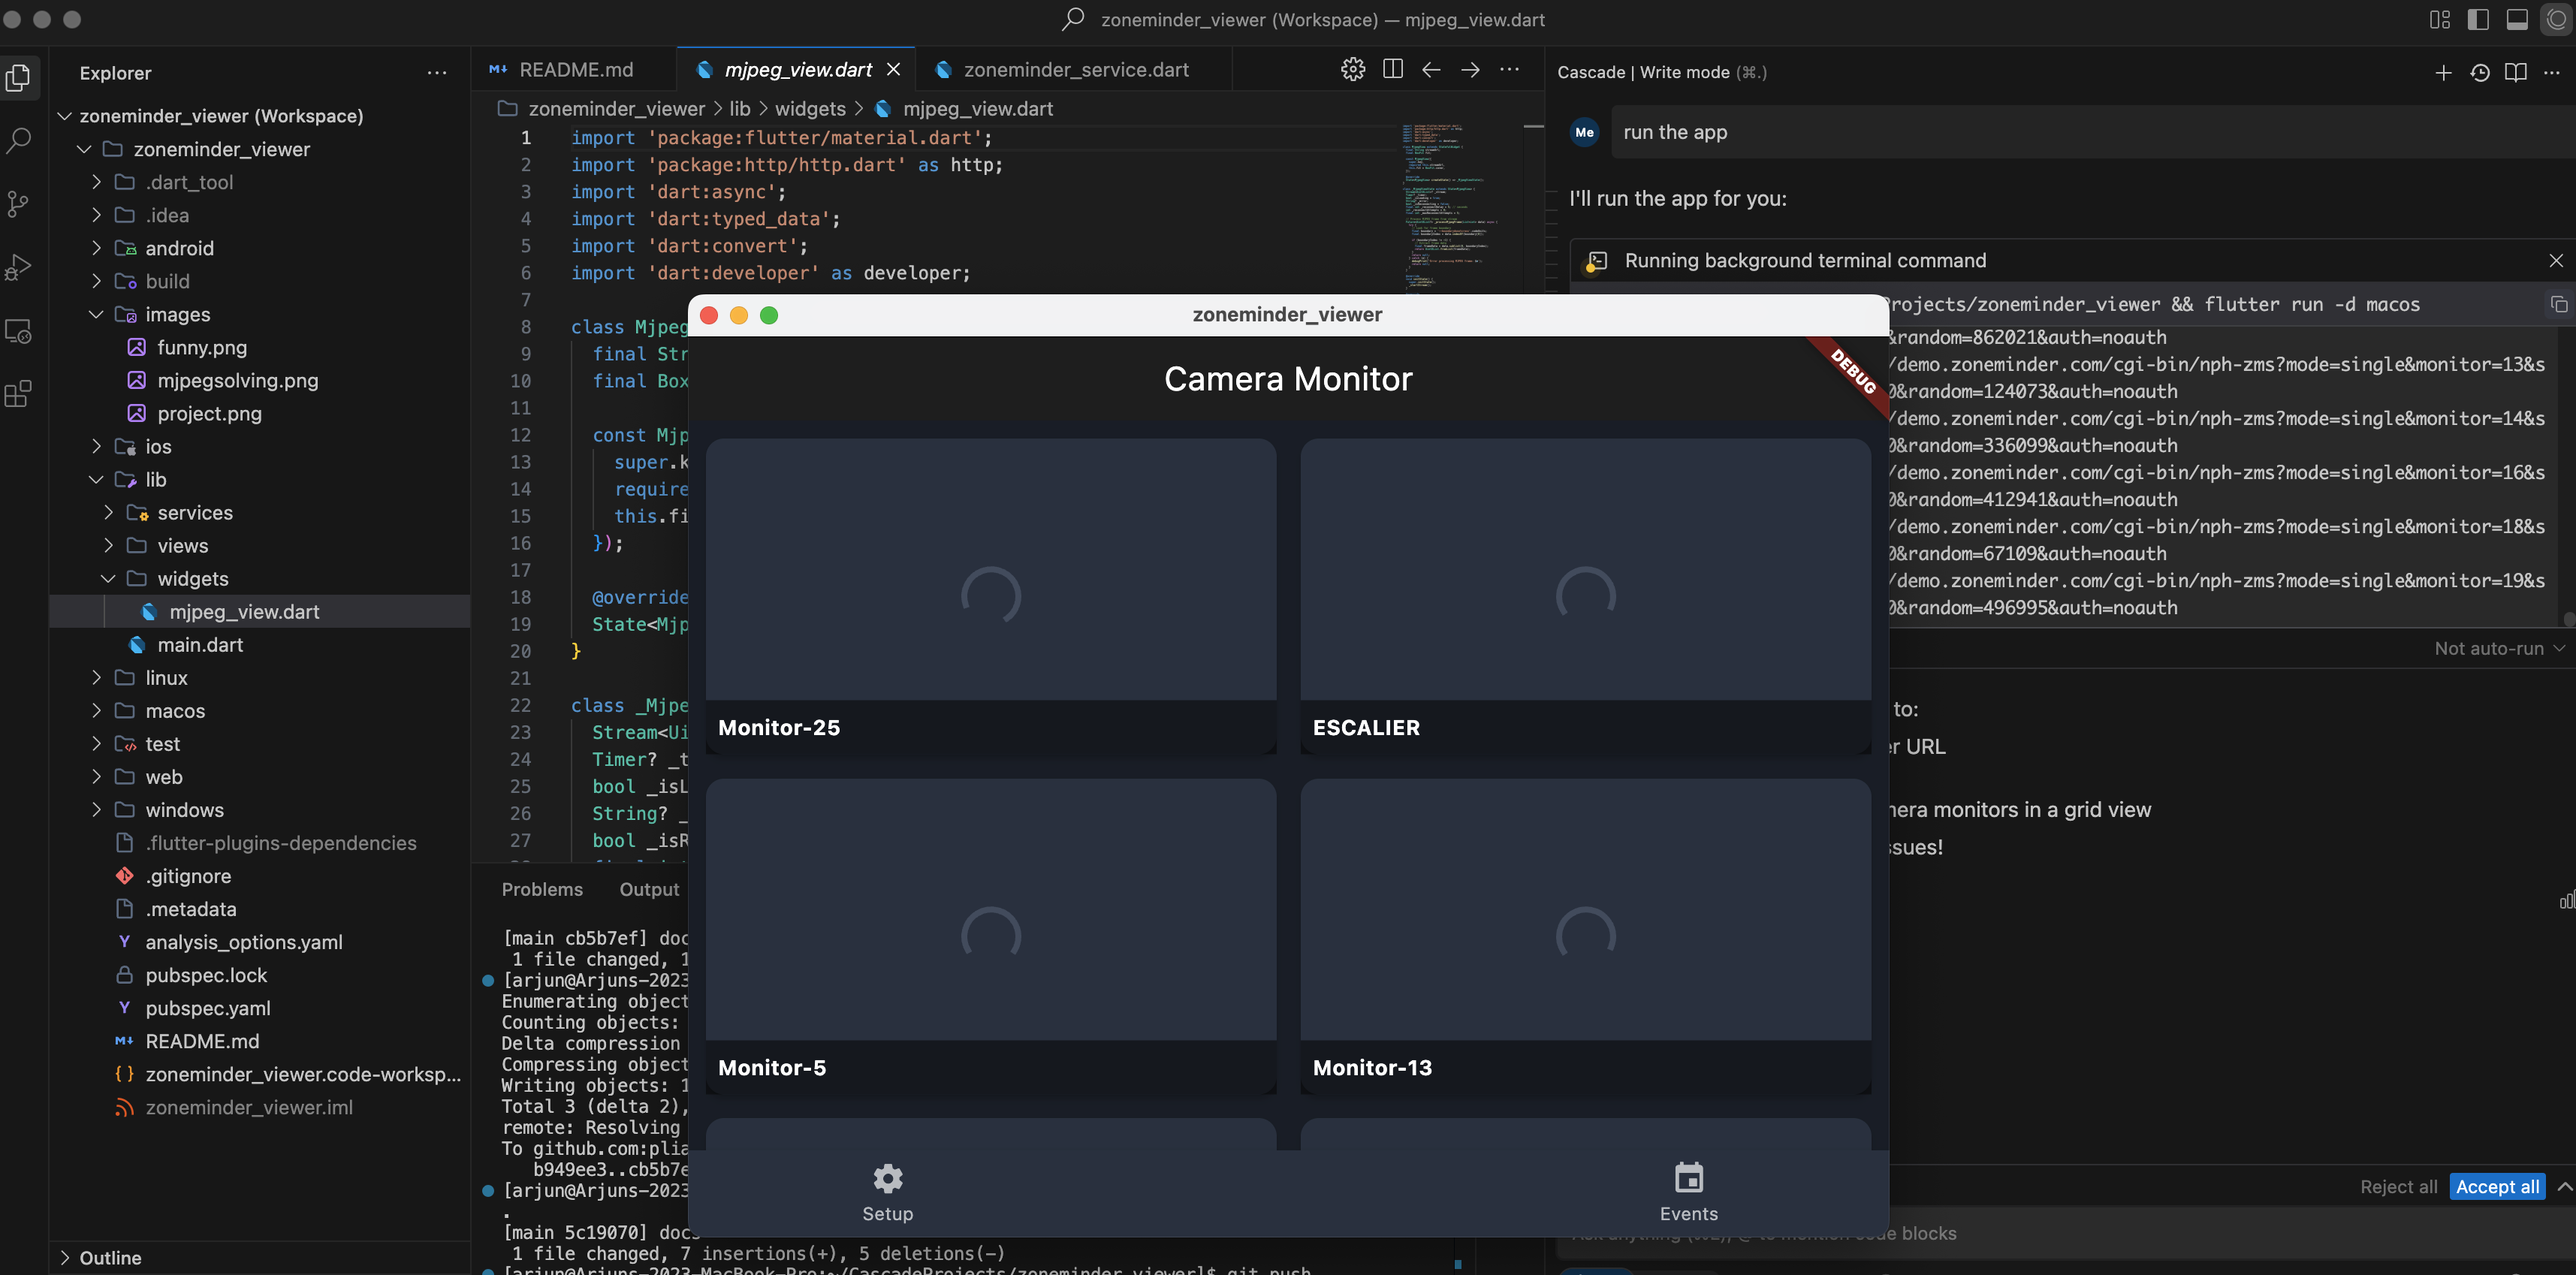
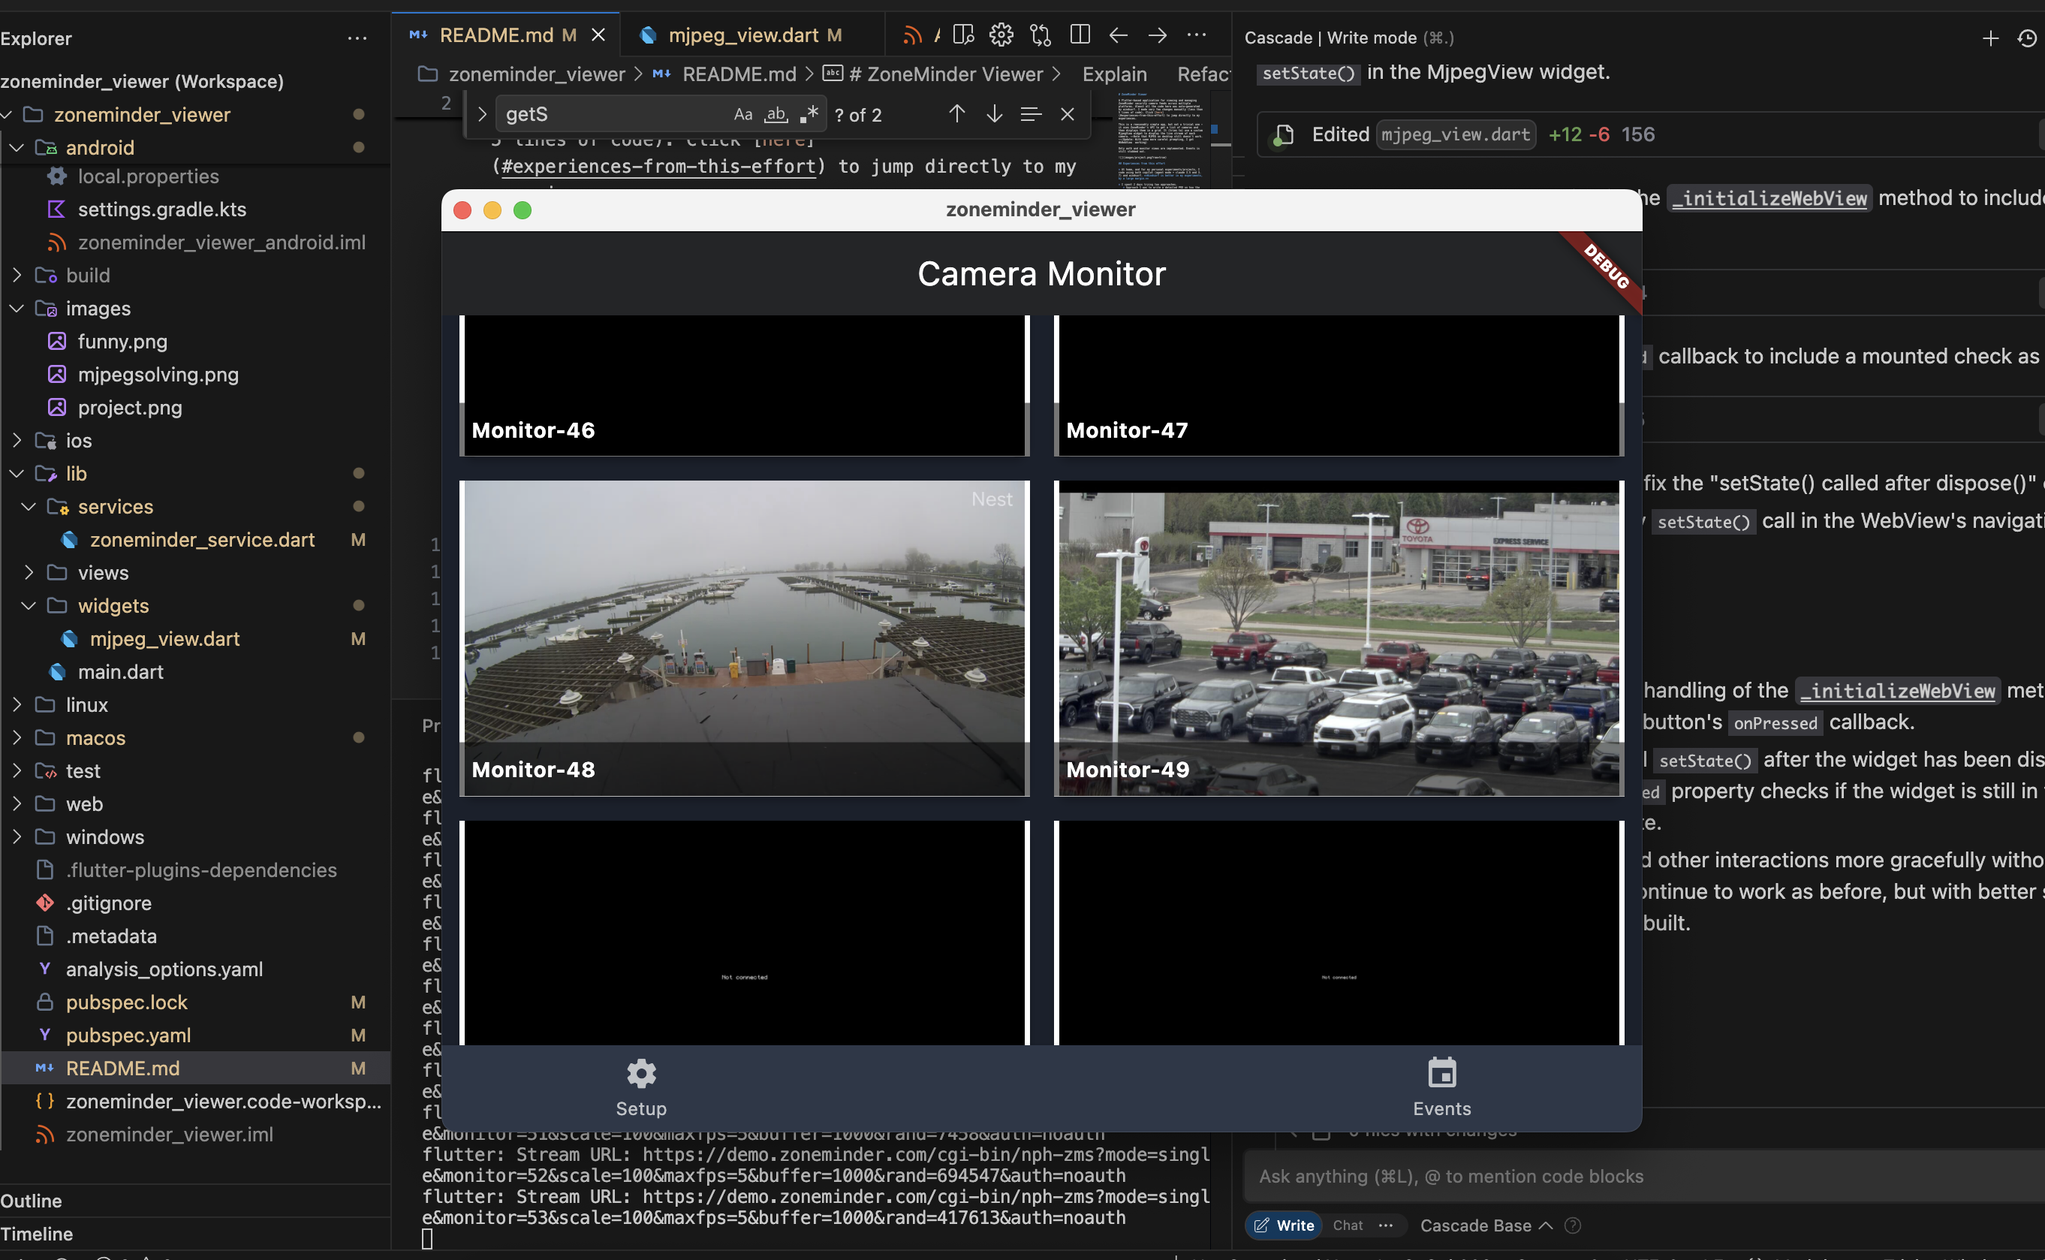
fixes

diff --git a/lib/widgets/mjpeg_view.dart b/lib/widgets/mjpeg_view.dart
@@ -1,9 +1,10 @@
 import 'package:flutter/material.dart';
-import 'package:http/http.dart' as http;
-import 'dart:async';
-import 'dart:typed_data';
-import 'dart:convert';
-import 'dart:developer' as developer;
+import 'package:flutter/foundation.dart' show kIsWeb;
+import 'package:webview_flutter/webview_flutter.dart';
+
+// Import for WebView widgets
+import 'package:webview_flutter_android/webview_flutter_android.dart';
+import 'package:webview_flutter_wkwebview/webview_flutter_wkwebview.dart';
 
 class MjpegView extends StatefulWidget {
   final String streamUrl;
@@ -20,187 +21,136 @@ class MjpegView extends StatefulWidget {
 }
 
 class _MjpegViewState extends State<MjpegView> {
-  Stream<Uint8List>? _stream;
-  Timer? _timer;
+  late final WebViewController _controller;
   bool _isLoading = true;
   String? _error;
-  bool _isReconnecting = false;
-  final int _reconnectDelay = 5; // seconds
-  int _reconnectAttempts = 0;
-  final int _maxReconnectAttempts = 5;
-
-  // Process MJPEG frame from stream
-  Future<Uint8List?> _processMjpegFrame(List<int> data) async {
-    try {
-      // Look for frame boundary
-      final boundary = '--boundarydonotcross'.codeUnits;
-      final boundaryIndex = data.indexOf(boundary[0]);
-      
-      if (boundaryIndex != -1) {
-        // Extract frame data
-        final frameData = data.sublist(0, boundaryIndex);
-        return Uint8List.fromList(frameData);
-      }
-      return null;
-    } catch (e) {
-      debugPrint('Error processing MJPEG frame: $e');
-      return null;
-    }
-  }
 
   @override
   void initState() {
     super.initState();
-    _startStream();
+    _initializeWebView();
+  }
+
+  void _initializeWebView() {
+    // Create platform-specific controller
+    late final PlatformWebViewControllerCreationParams params;
+    
+    // Configure for WKWebView on iOS/macOS
+    if (WebViewPlatform.instance is WebKitWebViewPlatform) {
+      params = WebKitWebViewControllerCreationParams(
+        allowsInlineMediaPlayback: true,
+        mediaTypesRequiringUserAction: const <PlaybackMediaTypes>{},
+      );
+    } else {
+      params = const PlatformWebViewControllerCreationParams();
+    }
+
+    // Create the WebViewController
+    _controller = WebViewController.fromPlatformCreationParams(params);
+    
+    // Configure common settings
+    _controller
+      ..setJavaScriptMode(JavaScriptMode.unrestricted)
+      ..setNavigationDelegate(
+        NavigationDelegate(
+          onPageStarted: (String url) {
+            if (mounted) {
+              setState(() => _isLoading = true);
+            }
+          },
+          onPageFinished: (String url) {
+            if (mounted) {
+              setState(() => _isLoading = false);
+            }
+          },
+          onWebResourceError: (error) {
+            if (mounted) {
+              setState(() {
+                _error = 'Failed to load stream: ${error.description}';
+                _isLoading = false;
+              });
+            }
+          },
+        ),
+      );
+
+    // Platform specific configurations
+    if (_controller.platform is AndroidWebViewController) {
+      AndroidWebViewController.enableDebugging(true);
+      final androidController = _controller.platform as AndroidWebViewController;
+      androidController.setMediaPlaybackRequiresUserGesture(false);
+    }
+
+    try {
+      // For web platform, we need to use an iframe to properly handle the MJPEG stream
+      if (kIsWeb) {
+        _controller.loadHtmlString('''
+          <!DOCTYPE html>
+          <html>
+          <head>
+            <meta name="viewport" content="width=device-width, initial-scale=1.0">
+            <style>
+              body, html { margin: 0; padding: 0; width: 100%; height: 100%; overflow: hidden; }
+              img { width: 100%; height: 100%; object-fit: cover; }
+            </style>
+          </head>
+          <body>
+            <img src="${widget.streamUrl}" />
+          </body>
+          </html>
+        ''');
+      } else {
+        // For desktop/mobile, use the direct URL
+        _controller.loadRequest(Uri.parse(widget.streamUrl));
+      }
+    } catch (e) {
+      if (mounted) {
+        setState(() {
+          _error = 'Failed to initialize WebView: $e';
+          _isLoading = false;
+        });
+      }
+    }
   }
 
   @override
   void dispose() {
-    _timer?.cancel();
-    _stream?.drain();
-    _stream = null;
-    super.dispose();
-  }
-
-  Future<void> _startStream() async {
     try {
-      setState(() {
-        _isLoading = true;
-        _error = null;
-        _reconnectAttempts = 0;
-      });
-
-      final client = http.Client();
-      try {
-        // Add headers for MJPEG streaming
-        final request = http.Request('GET', Uri.parse(widget.streamUrl))
-          ..headers['Accept'] = 'multipart/x-mixed-replace;boundary=--boundarydonotcross'
-          ..headers['Connection'] = 'keep-alive'
-          ..headers['Cache-Control'] = 'no-cache'
-          ..headers['Pragma'] = 'no-cache'
-          ..headers['User-Agent'] = 'Flutter MJPEG Viewer';
-
-        final response = await client.send(request);
-
-        if (response.statusCode == 200) {
-          // Create a controller to handle the stream
-          final controller = StreamController<Uint8List>();
-          
-          // Listen to the response stream
-          response.stream.listen(
-            (data) async {
-              if (mounted) {
-                final frame = await _processMjpegFrame(data);
-                if (frame != null) {
-                  controller.add(frame);
-                }
-              }
-            },
-            onError: (error) {
-              if (mounted && !_isReconnecting) {
-                _isReconnecting = true;
-                setState(() {
-                  _error = 'Stream Error: $error';
-                  _isLoading = true;
-                });
-                
-                // Wait and retry
-                Future.delayed(Duration(seconds: _reconnectDelay), () {
-                  if (_reconnectAttempts < _maxReconnectAttempts) {
-                    _reconnectAttempts++;
-                    _startStream();
-                  } else {
-                    _isReconnecting = false;
-                    setState(() {
-                      _error = 'Failed to reconnect after $_maxReconnectAttempts attempts';
-                      _isLoading = false;
-                    });
-                  }
-                });
-              }
-              controller.close();
-            },
-            onDone: () {
-              if (mounted && !_isReconnecting) {
-                _isReconnecting = true;
-                setState(() {
-                  _error = 'Stream connection closed';
-                  _isLoading = true;
-                });
-                
-                // Wait and retry
-                Future.delayed(Duration(seconds: _reconnectDelay), () {
-                  if (_reconnectAttempts < _maxReconnectAttempts) {
-                    _reconnectAttempts++;
-                    _startStream();
-                  } else {
-                    _isReconnecting = false;
-                    setState(() {
-                      _error = 'Failed to reconnect after $_maxReconnectAttempts attempts';
-                      _isLoading = false;
-                    });
-                  }
-                });
-              }
-              controller.close();
-            },
-            cancelOnError: false,
-          );
-
-          setState(() {
-            _stream = controller.stream;
-            _isLoading = false;
-          });
-
-          // Start a timer to keep the stream alive
-          _timer = Timer.periodic(const Duration(seconds: 30), (timer) {
-            if (mounted) {
-              setState(() {
-                // No-op to trigger a rebuild and keep the stream alive
-              });
-            }
-          });
-        } else {
-          throw Exception('Failed to get stream: ${response.statusCode}');
-        }
-      } finally {
-        client.close();
-      }
+      _controller.clearCache();
     } catch (e) {
-      if (mounted && !_isReconnecting) {
-        _isReconnecting = true;
-        setState(() {
-          _error = 'Initial connection failed: $e';
-          _isLoading = false;
-        });
-        
-        // Wait and retry
-        Future.delayed(Duration(seconds: _reconnectDelay), () {
-          if (_reconnectAttempts < _maxReconnectAttempts) {
-            _reconnectAttempts++;
-            _startStream();
-          } else {
-            _isReconnecting = false;
-            setState(() {
-              _error = 'Failed to reconnect after $_maxReconnectAttempts attempts';
-              _isLoading = false;
-            });
-          }
-        });
-      }
+      // Ignore errors during dispose
     }
+    super.dispose();
   }
 
   @override
   Widget build(BuildContext context) {
     if (_error != null) {
       return Center(
-        child: Text(
-          _error!,
-          style: const TextStyle(
-            color: Colors.white,
-            fontWeight: FontWeight.bold,
-          ),
+        child: Column(
+          mainAxisAlignment: MainAxisAlignment.center,
+          children: [
+            const Icon(Icons.error_outline, color: Colors.red, size: 48),
+            const SizedBox(height: 16),
+            Text(
+              _error!,
+              style: const TextStyle(color: Colors.red),
+              textAlign: TextAlign.center,
+            ),
+            const SizedBox(height: 16),
+            ElevatedButton(
+              onPressed: () {
+                if (mounted) {
+                  setState(() {
+                    _error = null;
+                    _isLoading = true;
+                  });
+                  _initializeWebView();
+                }
+              },
+              child: const Text('Retry'),
+            ),
+          ],
         ),
       );
     }
@@ -211,32 +161,11 @@ class _MjpegViewState extends State<MjpegView> {
       );
     }
 
-    return StreamBuilder<Uint8List>(
-      stream: _stream,
-      builder: (context, snapshot) {
-        if (snapshot.hasError) {
-          return Center(
-            child: Text(
-              'Stream Error: ${snapshot.error}',
-              style: const TextStyle(
-                color: Colors.white,
-                fontWeight: FontWeight.bold,
-              ),
-            ),
-          );
-        }
-
-        if (snapshot.hasData) {
-          return Image.memory(
-            snapshot.data!,
-            fit: widget.fit,
-          );
-        }
-
-        return const Center(
-          child: CircularProgressIndicator(),
-        );
-      },
+    return WebViewWidget(
+      controller: _controller,
+      // Ensure proper sizing on all platforms
+      layoutDirection: TextDirection.ltr,
+      key: GlobalKey(),
     );
   }
 }

diff --git a/lib/services/zoneminder_service.dart b/lib/services/zoneminder_service.dart
@@ -148,7 +148,7 @@ class ZoneMinderService {
     final random = Random();
     final connKey = random.nextInt(1000000);
     final token = _accessToken ?? 'noauth';
-    return '$_baseUrl/cgi-bin/nph-zms?mode=single&monitor=$monitorId&scale=100&maxfps=5&buffer=1000&random=$connKey&auth=$token';
+    return '$_baseUrl/cgi-bin/nph-zms?mode=single&monitor=$monitorId&scale=100&maxfps=5&buffer=1000&rand=$connKey&auth=$token';
   }
 
   Future<void> setBaseUrl(String url) async {

diff --git a/macos/Flutter/GeneratedPluginRegistrant.swift b/macos/Flutter/GeneratedPluginRegistrant.swift
@@ -6,7 +6,9 @@ import FlutterMacOS
 import Foundation
 
 import shared_preferences_foundation
+import webview_flutter_wkwebview
 
 func RegisterGeneratedPlugins(registry: FlutterPluginRegistry) {
   SharedPreferencesPlugin.register(with: registry.registrar(forPlugin: "SharedPreferencesPlugin"))
+  WebViewFlutterPlugin.register(with: registry.registrar(forPlugin: "WebViewFlutterPlugin"))
 }

diff --git a/README.md b/README.md
@@ -3,7 +3,7 @@
 
 A Flutter-based application for viewing and managing ZoneMinder security camera feeds across multiple platforms. Almost all the code here was auto-generated by windsurf. I made very few changes manually (less than 5 lines of code). Click [here](#experiences-from-this-effort) to jump directly to my experiences.
 
-This is a reasonably simple app, but not a trivial one - it uses ZoneMinder's API to get a list of cameras and then displays them in a grid. It (tries to) use a custom MjpegView widget to display the live stream of each camera. Note that MJPEG on desktop still doesn't work. Another option is switching to WebView, but when I do, windsurf goes into a complete loop where it repeatedly breaks build deps over and over again. Furthermore, I've had terrible experiences with WebView in the past on mobile devices - it doesn't seem to do a good job releasing memory when views are closed, which is a problem with streaming MJPEG that keeps chewing up memory. Things might have improved nowadays, but given Windsurf couldn't get it working and my experiences were jaded, I stuck to a custom MJPEG class.
+This is a reasonably simple app, but not a trivial one - it uses ZoneMinder's API to get a list of cameras and then displays them in a grid. It (tries to) use a custom MjpegView widget to display the live stream of each camera. ~~Note that MJPEG on desktop still doesn't work.~~(Update: With some more careful prompting, I got WkWebView  working)
 
 Only auth and monitor views are implemented. Events is still stubbed out.
 
